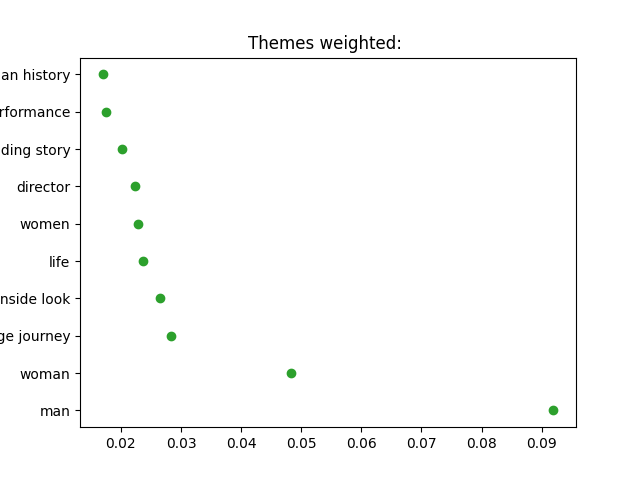
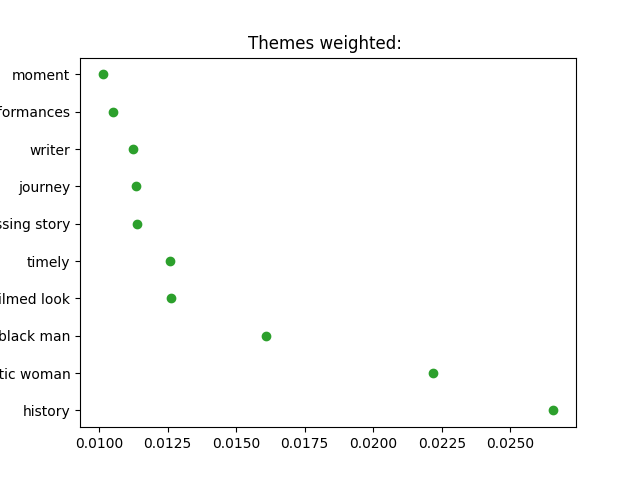
#44 fixed themes duplication.

diff --git a/final_project/flask_search_engine.py b/final_project/flask_search_engine.py
@@ -24,6 +24,12 @@ file = open("scraped_data.txt", "r") #file where data is stored
 contents = file.read()
 documents = ast.literal_eval(contents)
 file.close()
+"""Ceates a matric and a term vocabulary"""
+tfv = TfidfVectorizer(lowercase=True, sublinear_tf=True, use_idf=True, norm="l2", token_pattern=r"\b\w\w+\-*\'*\.*\"*\w*\b")
+global tf_matrix, terms
+tf_matrix = tfv.fit_transform(documents).T.todense()
+terms = tfv.get_feature_names()
+
 
 @app.route('/search')
 def search():
@@ -52,16 +58,10 @@ def test_query(query):
     matches = []
     global graph_matches
     graph_matches = []
-    """Ceates a matric and a term vocabulary"""
-    tfv = TfidfVectorizer(lowercase=True, sublinear_tf=True, use_idf=True, norm="l2", token_pattern=r"\b\w\w+\-*\'*\.*\"*\w*\b")
-    global tf_matrix, terms, t2i
-    tf_matrix = tfv.fit_transform(documents).T.todense()
-    terms = tfv.get_feature_names()
-
+    
 
     if choice == "exact":
         if query in terms:      #if query is found in the data
-
             snippets = []
             
             """Creates a vector from the query, finds matching documents and ranks them"""
@@ -180,6 +180,7 @@ def generate_theme_plot(keyphrases): #creates a scatterplot by theme and weight
     
 
 def extractor(): #extracts important words from the search results
+    keyphrases = []
     extractor = pke.unsupervised.TopicRank()
     extractor.load_document("document.txt", language='en')
     extractor.candidate_selection()
